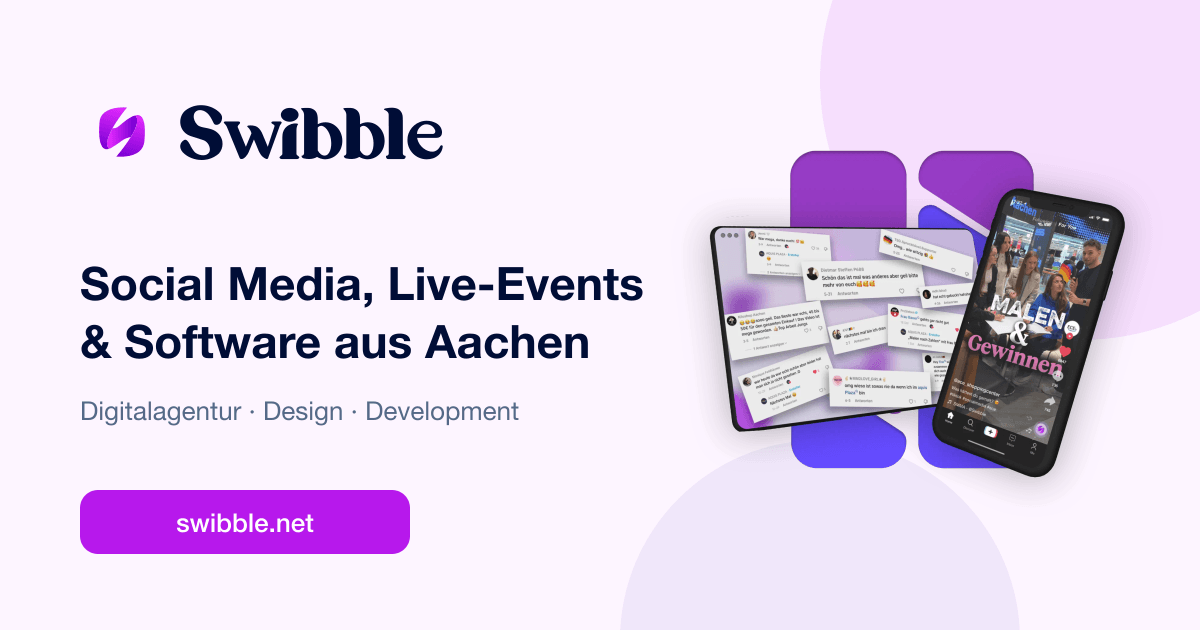
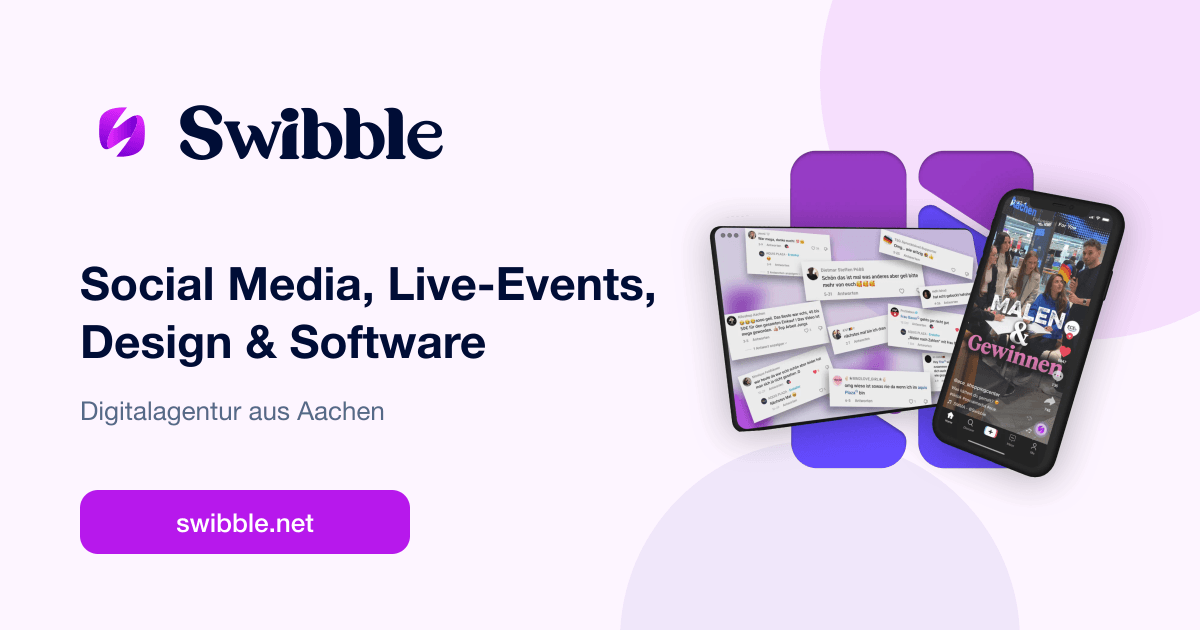
Hero title: Social Media, Live-Events, Design & Software
H1, page title and OG image now name all four service areas.

Changed region(s): [[0.0617, 0.5127, 0.4933, 0.6032], [0.185, 0.6333, 0.4317, 0.6937], [0.5242, 0.4524, 0.555, 0.4825]]

diff --git a/components/LandingPart.tsx b/components/LandingPart.tsx
@@ -8,7 +8,7 @@ const LandingPart = () => {
       <div className="bg-[#FDF5FF] bg-cover absolute top-0 bottom-0 right-0 left-0 -z-10 w-screen -mt-20 -mx-4 lg:-mx-20"></div>
       <div className="flex flex-col gap-5">
         <h1 className="text-[#000D36] font-bold text-3xl leading-tight lg:text-5xl lg:leading-[1.15]">
-          Social Media, Live-Events & Software aus Aachen
+          Social Media, Live-Events, Design & Software
         </h1>
         <p className="text-[#000D36] text-base font-normal lg:text-lg">
           Egal ob Start-up oder langjährig etabliert: Swibble bringt deine

diff --git a/pages/index.tsx b/pages/index.tsx
@@ -24,7 +24,7 @@ export default function Home({ latestPosts, videos }: Props) {
   return (
     <>
       <SEO
-        title="Swibble – Social Media, Live-Events & Software aus Aachen"
+        title="Swibble – Social Media, Live-Events, Design & Software aus Aachen"
         description="Swibble ist deine Digitalagentur aus Aachen für Social Media, Live-Events, Design & Software-Entwicklung. Jetzt kostenloses Erstgespräch sichern."
         canonical="/"
         jsonLd={[organizationJsonLd, webSiteJsonLd]}

diff --git a/components/SEO.tsx b/components/SEO.tsx
@@ -14,7 +14,7 @@ interface SEOProps {
 }
 
 export default function SEO({
-  title = "Swibble – Social Media, Live-Events & Software aus Aachen",
+  title = "Swibble – Social Media, Live-Events, Design & Software aus Aachen",
   description = "Swibble ist deine Digitalagentur aus Aachen für Social Media, Live-Events, Design & Software-Entwicklung. Jetzt kostenloses Erstgespräch sichern.",
   canonical,
   ogImage = `${SITE_URL}/og-image.png`,
